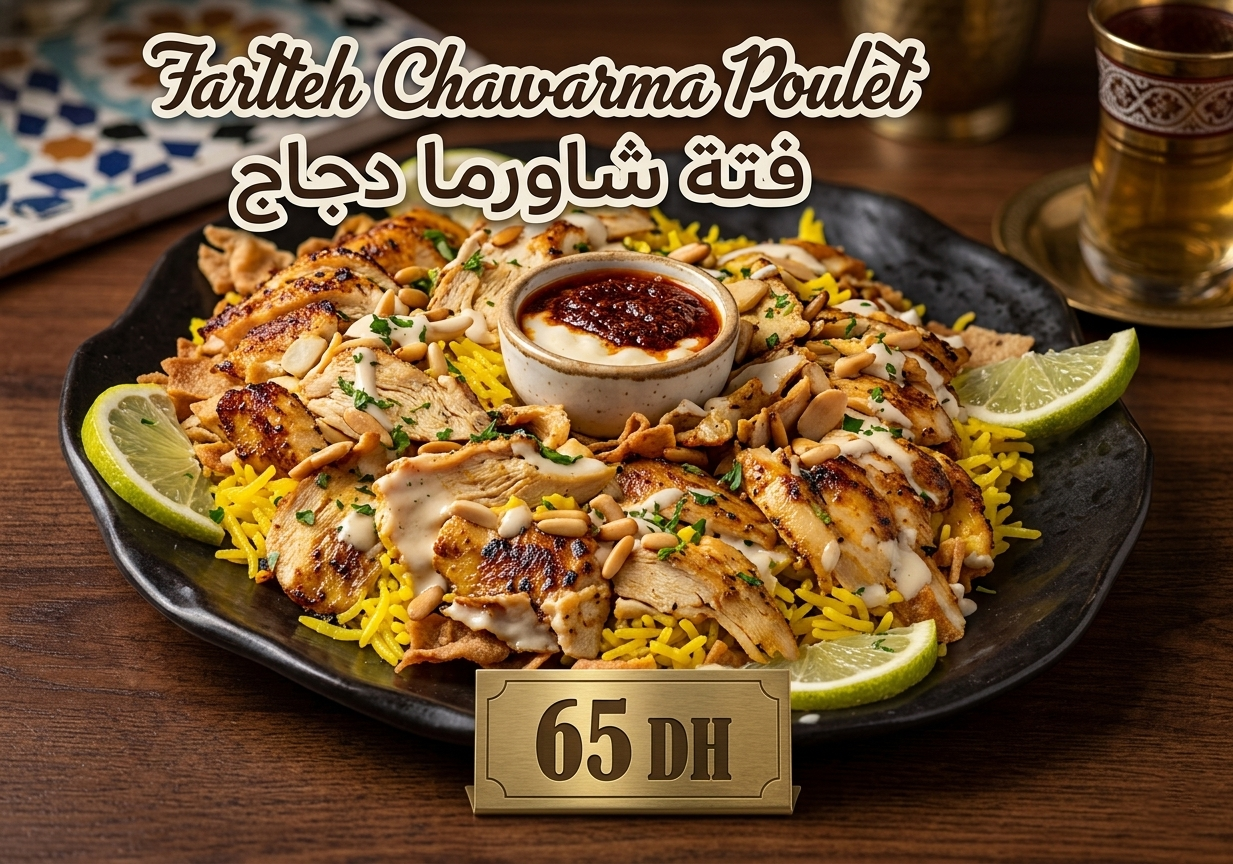
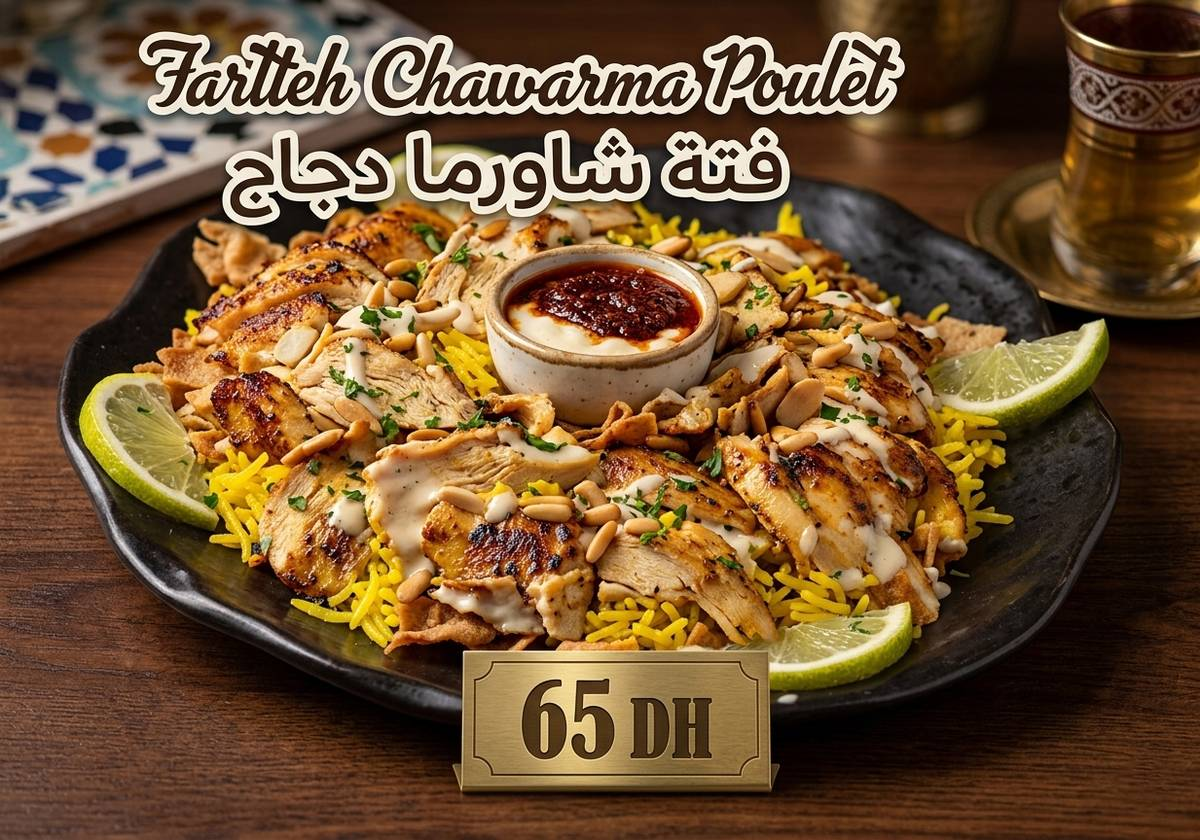
Optimize image sizes for fast loading

Changed region(s): [[0.4008, 0.619, 0.4317, 0.681]]

diff --git a/syncstay-app-main/shrink.py b/syncstay-app-main/shrink.py
@@ -1,0 +1,35 @@
+import os
+from PIL import Image
+
+# This will look at your public folder where the images are
+input_folder = "public" 
+
+for filename in os.listdir(input_folder):
+    # Make sure we only check image files
+    if filename.lower().endswith((".png", ".jpg", ".jpeg")):
+        filepath = os.path.join(input_folder, filename)
+        
+        try:
+            # Open the image
+            img = Image.open(filepath)
+            
+            # FIX 1: Convert RGBA to RGB
+            # JPEGs don't support transparency. This "flattens" the image.
+            if img.mode != 'RGB':
+                img = img.convert('RGB')
+            
+            # 1. Resize it (1200px is plenty for a phone screen)
+            base_width = 1200
+            w_percent = (base_width / float(img.size[0]))
+            h_size = int((float(img.size[1]) * float(w_percent)))
+            img = img.resize((base_width, h_size), Image.LANCZOS)
+            
+            # 2. Save it with compression (Optimized)
+            img.save(filepath, "JPEG", optimize=True, quality=70)
+            print(f"✅ Compressed {filename}")
+            
+        except Exception as e:
+            # FIX 2: Skip broken or unidentified files instead of crashing
+            print(f"❌ Skipped {filename} due to error: {e}")
+
+print("\n--- All done! Check your public folder sizes now. ---")
